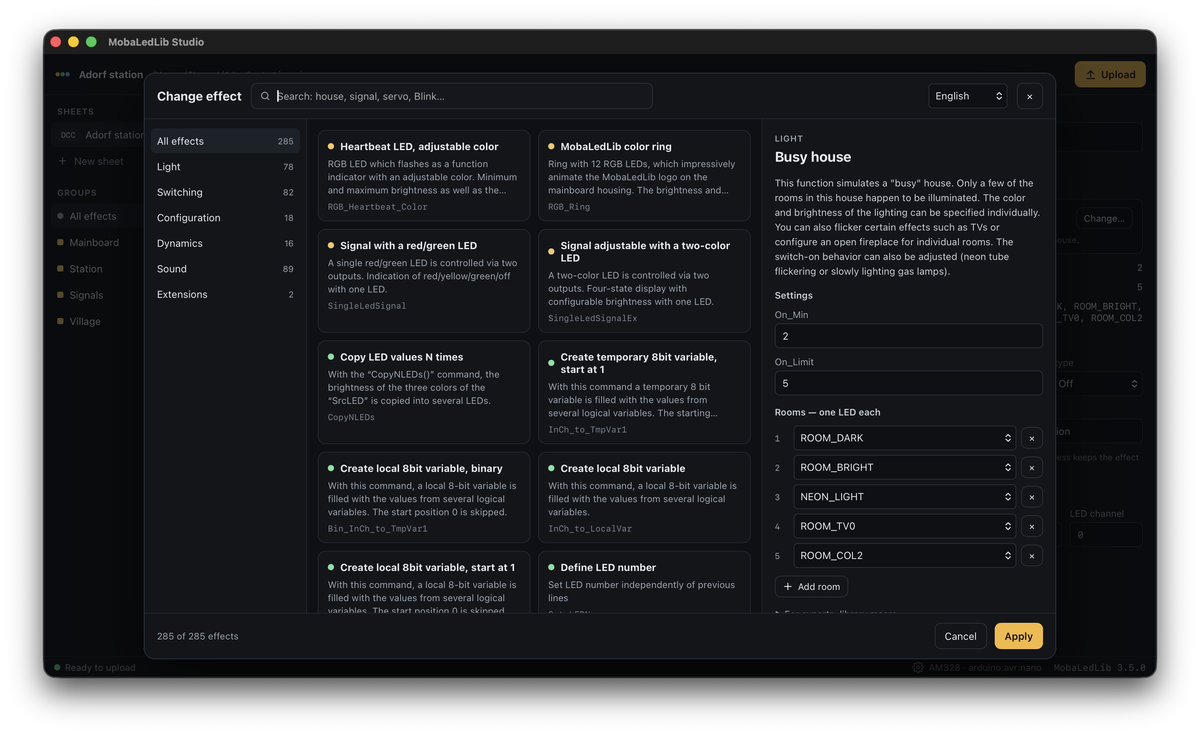
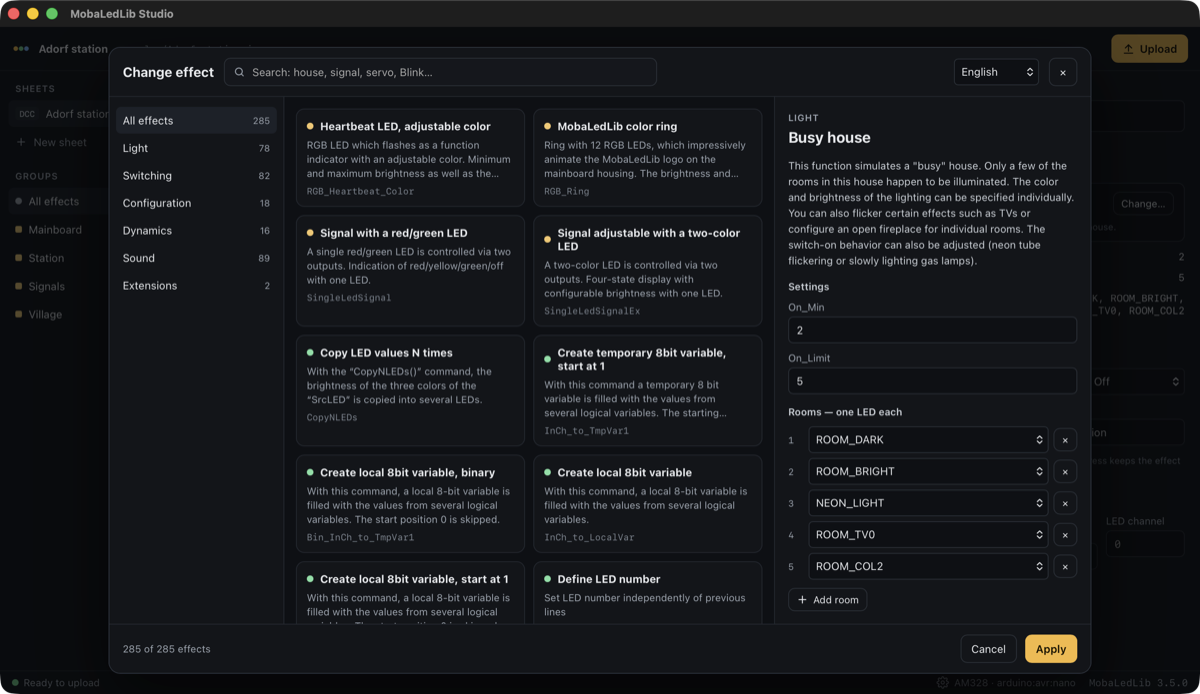
README and screenshots for 0.1.0-beta.3; --view simulate (#16)

diff --git a/app/ui/app.js b/app/ui/app.js
@@ -1443,4 +1443,5 @@ listen('tauri://drag-drop', (ev) => {
   else if (opt.view === 'header') openHeader();
   else if (opt.view === 'upload') openUpload();
   else if (opt.view === 'settings') { state.modal = { type: 'settings' }; renderModal(); }
+  else if (opt.view === 'simulate') openSimulate();
 })();

diff --git a/app/src-tauri/src/main.rs b/app/src-tauri/src/main.rs
@@ -80,7 +80,7 @@ fn open_layout_path(path: String) -> Result<Opened, String> {
 
 /// How the window starts, from the command line ("Open with", and for documentation
 /// screenshots): a layout or .MLL_pgf file to open, `--row N` to select row N (from 1) and
-/// `--view gallery|header|upload|settings` to open that view.
+/// `--view gallery|header|upload|settings|simulate` to open that view.
 #[derive(Serialize)]
 struct StartupOptions {
     file: Option<String>,

diff --git a/README.md b/README.md
@@ -5,7 +5,7 @@
 ![MobaLedLib Studio: a station with house lighting, gas lamps, signals and a level crossing](docs/screenshot.png)
 
 > [!WARNING]
-> **Beta, completely untested.** Version `0.1.0-beta.1` has not been tried on real hardware, and the
+> **Beta, completely untested.** Version `0.1.0-beta.3` has not been tried on real hardware, and the
 > generated `LEDs_AutoProg.h` has not yet been compared with the output of the Excel tool. Do not rely on
 > it for your layout yet. Test reports are very welcome (see [Help wanted](#help-wanted-testing)).
 
@@ -43,7 +43,7 @@ The effect catalog in [`data/catalog.json`](data/catalog.json) (285 effects, 169
 
 ## Features
 
-### Implemented in 0.1.0-beta.1
+### Implemented in 0.1.0-beta.3
 
 **Layouts and files**
 - Layouts saved as readable JSON (`*.json`), with a format id and version for future migrations
@@ -83,6 +83,13 @@ The effect catalog in [`data/catalog.json`](data/catalog.json) (285 effects, 169
 - Live validation: problems are shown on the row they belong to
 - View and copy the generated header
 
+**Simulator** (*Arduino › Simulate…*)
+- Shows the LEDs of a sheet without an Arduino: they run in MobaLedLib 3.5.0's own engine, compiled into the app
+- The configuration is compiled as the Excel tool's simulator does it (the Arduino AVR compiler of `arduino-cli`
+  with `CONFIG_ONLY`), so it needs `arduino-cli`, the AVR boards and the library bundle
+- An on/off switch for every input of the sheet
+- Not yet compared with the Excel simulator; `LED_to_Var()` is not simulated
+
 **Build and upload**
 - Compile and upload with the official `arduino-cli` (found automatically, including the copy inside Arduino IDE 2)
 - Serial port detection, board presets (Nano, Nano with old bootloader, Uno, ESP32, Pico)
@@ -112,7 +119,6 @@ Rows that use one of these features are reported as an error instead of producin
 | ESP32 extensions (`EX.…` macros) | missing |
 | Color table dialog (`Set_ColTab`) and the Pattern Configurator | missing |
 | Uploading the DCC / Selectrix / LocoNet receiver program to the second Arduino | missing |
-| LED simulator | missing |
 | Test buttons on the sheet | missing |
 | Import directly from `.xlsm` (use "Save data to file" in Excel and import the `.MLL_pgf`) | not planned |
 | User interface in other languages than English: effect texts, generator messages and the texts the Excel tool shows too (column headers, `Config` page, some buttons) are translated; the rest of the app is English ([docs/translations.md](docs/translations.md)) | partly |
@@ -121,12 +127,10 @@ Rows that use one of these features are reported as an error instead of producin
 ### Planned
 
 1. Verify the generated header against the Excel tool with real layouts (see below), then remove "untested"
-2. Switches (`SwitchA`…`D`), variables as addresses and effects that set variables (`DstVar`) (done, not released yet)
-3. Uploading the DCC/Selectrix receiver program
-4. Simulator that shows the LEDs without hardware
-5. Sound channels, multiplexer, include, DMX
-6. Translations of the user interface (German first)
-7. Arduino setup inside the app: on the first upload, download `arduino-cli` and install pinned versions of
+2. Uploading the DCC/Selectrix receiver program
+3. Sound channels, multiplexer, include, DMX
+4. Translations of the user interface (German first)
+5. Arduino setup inside the app: on the first upload, download `arduino-cli` and install pinned versions of
    MobaLedLib, FastLED and the board package into the app's own folders, so it doesn't depend on (or change)
    the user's Arduino IDE setup
 
@@ -177,7 +181,7 @@ The simulator compiles MobaLedLib and FastLED from git submodules; clone with `-
 ```sh
 cargo run -p mobaledlib-studio        # start the app
 cargo run -p mobaledlib-studio -- "examples/Adorf station.json" --row 2 --view gallery
-                                      # open a file, select a row, open a view (gallery, header, upload, settings)
+                                      # open a file, select a row, open a view (gallery, header, upload, settings, simulate)
 cargo test --workspace                # run the tests
 cargo run -p mll-cli -- generate layout.json
 ```
